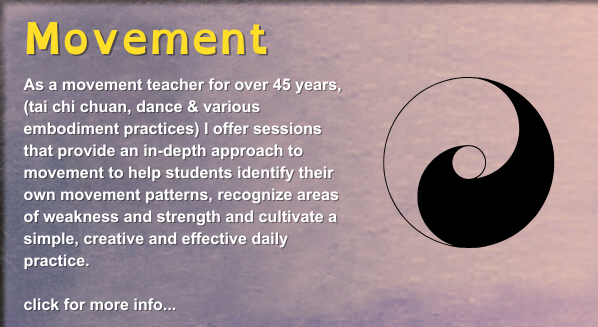
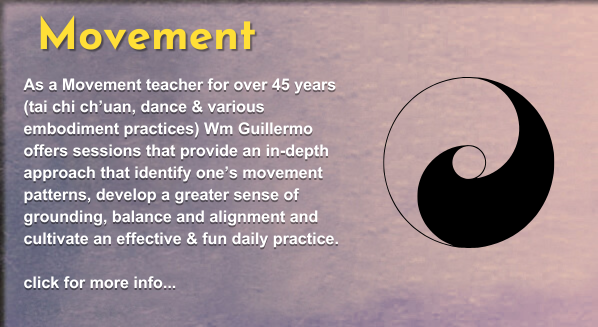
update

diff --git a/about.html b/about.html
@@ -28,19 +28,74 @@
 
     <div class="title-container">
       <div class="title-contents">
-<!--         <span class="signature">Wm Guillermo Ortiz</span>
- -->      </div>
+        <!--         <span class="signature">Wm Guillermo Ortiz</span>
+ -->
+      </div>
       <span class="title">About</span>
       <hr>
     </div>
 
     <div id="content">
       <h1>Who is Wm Guillermo Anyway?</h1>
- <!--      <p><img src="images/about-headshot.png" alt="Wm Guillermo Ortiz" width="233" height="350" class="img-right" />
+      <!--      <p><img src="images/about-headshot.png" alt="Wm Guillermo Ortiz" width="233" height="350" class="img-right" />
       </p> -->
       <p class="para-one"><em>“My strong interest and desire is to share my passion for cultivating and sustaining
           health, joy and well-being in one’s body, home and life.”</em></p>
+
       <h2>L.A. Roots</h2>
+      <p>Wm Guillermo Ortiz was raised in Los Angeles, the second of seven sons, to a Latino working-class family with
+        roots in northern Mexico. Him and his brothers were expected to contribute to their father’s moving business, and
+        in this way, his father became his first movement teacher. <br><br> Growing up in the 50’s and 60’s, his love of rock 'n' roll and
+        fascination with the forms of dance began a deepening interest within himself into the realm of physical expression.<!--—one of these that held
+        his interest at the time was long-distance running.--></p>
+        <p><img src="" alt="image of young guillermo" width="330" height="" class="img-right" /></p>
+
+      <p>From 1968 to 1972, during the time of the Vietnam war, he served in the US Navy as a medical and neuro-psychiatric corpsman
+        which propelled him into the mental health field where he stayed for the next ten years. <br><br>It was during this period that he was introduced to
+        tai chi Ch’uan, the Chinese art of health and self-defense. Under the guidance of his teacher Marshall Ho’o, he
+        began a lifelong practice that continues to this day.<br><br> These experiences formed the basis for his movement,
+        healing, and work with trauma.</p>
+
+
+      <h2>Moving Forward</h2>
+      <p>In 1984, he was invited by the Institute for Educational Therapy to travel to Italy to be a co-teacher in a
+        month-long seminar in bodywork, tai chi Ch’uan, dance, and meditation. From this initial workshop, and
+        through fostering and maintaining connections within the bodywork/movement community, he began
+        developing a consistent corriculum for retreats and workshops he taught around Europe<!--  connections within the bodywork/movement community -->. 
+        <br><br>During this time he had the opportunity to meet and study with Buddhist movement teacher Prapto Suryodharmo, which led to travels to
+        Java studying and refining his movement skills in a spiritual landscape.</p>
+
+      <h2>Xochipilli & Men Work</h2>
+      <p>Moving to the Bay Area, he became involved with the Sons of Orpheus in the mytho-poetic men’s movement. In
+        1992, along with fellow Chicano artists Juan Domingo, poet/activist Rafael J. Gonzalez, and diversity trainer
+        Roberto Almanzan, they founded Xochipilli, a Latino men’s ritual group. Xochipilli continues to use art, ritual,
+        and performance to address socially relevant issues.</p>
+
+        <p><img src="images/ministry-back.webp" alt="Wm Guillermo Ortiz" width="430" height="" class="img-left" /></p>
+
+
+      <h2>Ministry</h2>
+      <p>At the advent of the Iraqi war, feeling compelled to step up his peace efforts, he commenced a Master’s of
+        Divinity program with the Seminary for Spiritual Peacemaking, founded by James Twyman. Ordained in 2006, he
+        began offering public and private ceremonies with an emphasis on embodying peace. In addition, he began
+        officiating weddings, conducting last rites, and offering home blessings.</p>
+
+      <h2>Curanderismo</h2>
+      <p>It was in 2005 that he took on an official apprenticeship with Elena Avila, RN, curandera and author of <a
+        href="https://www.google.com/search?q=woman+who+glows+in+the+dark&oq=woman+who+glows+i&gs_lcrp=EgZjaHJvbWUqCggAEAAY4wIYgAQyCggAEAAY4wIYgAQyBwgBEC4YgAQyBggCEEUYOTIHCAMQABiABDIHCAQQABiABDIHCAUQABiABDIHCAYQABiABDIHCAcQABiABDIICAgQABgWGB4yCAgJEAAYFhge0gEIMjk2MGowajeoAgCwAgA&sourceid=chrome&ie=UTF-8"
+        target="_blank" rel="noopener"><U>"Woman Who Glows in the
+          Dark."</U></a> Elena had been a close friend since 1981 when they met working together at UCLA. It was
+        her committed journey into her Mexican roots that inspired him to go deeper into the practices of curanderismo.
+        He was initiated in November 2010 with a ceremony conducted in Mexico City surrounded by friends and family. He
+        continues to offer his services to his community.</p>
+
+      <h2>Personal Statement</h2>
+      <p>Woven through all his work is a strong desire for excellence, caring for others, and a vision of a peaceful
+        world. His love of physical movement allows him to fully engage in his craft, and his passion for healing
+        informs his peace ministry and work in curanderismo.</p>
+
+
+      <!--       <h2>L.A. Roots</h2>
       <p>Wm Guillermo Ortiz was raised in Los Angeles, the second of seven sons, to a latino working class family with
         roots in northern Mexico. He and his brothers were expected to contribute to their father’s moving business and
         from an early age he was imbued with a respect and appreciation for “work well-done.”</p>
@@ -94,64 +149,64 @@
         physical movement allows him to fully engage in his craft and his passion for healing informs his peace ministry
         and work in curanderismo. </p>
       <p> “My strong interest and desire is to share my passion for cultivating and sustaining health, joy and
-        well-being in one’s body, home and life.”</p>
-    </div>
-    <form action="http://www.wmguillermo.com/cgi-bin/FormMail.pl" method="POST"
-      enctype="application/x-www-form-urlencoded">
+        well-being in one’s body, home and life.”</p>-->
+    </div> 
+      <form action="http://www.wmguillermo.com/cgi-bin/FormMail.pl" method="POST"
+        enctype="application/x-www-form-urlencoded">
 
-      <input type="hidden" name="recipient" value="info">
-      <input type="hidden" name="subject" value="wmguillermo.com contact/about">
-      <input type="hidden" name="redirect" value="http://www.wmguillermo.com/contact-response.html">
+        <input type="hidden" name="recipient" value="info">
+        <input type="hidden" name="subject" value="wmguillermo.com contact/about">
+        <input type="hidden" name="redirect" value="http://www.wmguillermo.com/contact-response.html">
 
-      <div class="box">
-        <h1>Let's Connect. Call me at 510-685-8270, or, use this form: </h1>
-        <label>
-          <span>Name</span> <input type="text" class="input_text" name="realname" id="realname" />
-        </label>
-        <label>
-          <span>Email </span>
-          <input type="text" class="input_text" name="email" id="email" />
-          &nbsp;&nbsp;I hate spam too. Your address is safe. </label>
-        <label>
-          <span>Enter Code </span>
-          <input type="text" class="input_text" name="secretfield" id="secretfield" />
-          &nbsp;&nbsp;<strong>← CODE: nospam </strong> </label>
-        <label>
-          <span>Telephone #</span>
-          <input type="text" class="input_text" name="phone" id="phone" />
-          &nbsp;&nbsp;If you'd like me to call you</label>
-        <label>
-          <span>Concerning </span>
-          <input type="text" class="input_text" name="concerning" id="concerning" />
-          &nbsp;&nbsp;Which services are you interested in?</label>
-        <label>
-          <span>Message</span>
-          <textarea class="message" name="message" id="message"></textarea>
-          <input type="submit" class="button" value="Send Now" />
-        </label>
-      </div>
-    </form>
+        <div class="box">
+          <h1>Let's Connect. Call me at 510-685-8270, or, use this form: </h1>
+          <label>
+            <span>Name</span> <input type="text" class="input_text" name="realname" id="realname" />
+          </label>
+          <label>
+            <span>Email </span>
+            <input type="text" class="input_text" name="email" id="email" />
+            &nbsp;&nbsp;I hate spam too. Your address is safe. </label>
+          <label>
+            <span>Enter Code </span>
+            <input type="text" class="input_text" name="secretfield" id="secretfield" />
+            &nbsp;&nbsp;<strong>← CODE: nospam </strong> </label>
+          <label>
+            <span>Telephone #</span>
+            <input type="text" class="input_text" name="phone" id="phone" />
+            &nbsp;&nbsp;If you'd like me to call you</label>
+          <label>
+            <span>Concerning </span>
+            <input type="text" class="input_text" name="concerning" id="concerning" />
+            &nbsp;&nbsp;Which services are you interested in?</label>
+          <label>
+            <span>Message</span>
+            <textarea class="message" name="message" id="message"></textarea>
+            <input type="submit" class="button" value="Send Now" />
+          </label>
+        </div>
+      </form>
 
 
-    <div id="footer">
-      <div class="spacer-32"></div>
-      <ul>
-        <li><a href="index.html">home</a></li>
-        <li><a href="about.html">about</a></li>
-        <li><a href="curanderismo.html">curanderismo</a></li>
-        <li><a href="movement.html">movement</a></li>
-        <li><a href="ministry.html">ministry</a></li>
-        <li><a href="contact.html">contact</a></li>
-      </ul>
-      <p class="mar-top">Please share my site with your friends and help me spread the word!</p>
-      <!-- <div class="addthis_toolbox addthis_default_style addthis_32x32_style" style="width:300px; margin:0 auto; text-align:center;  padding-left:30px; padding-top: 12px;"> <a class="addthis_button_twitter" style="padding-right: 12px;"></a> <a class="addthis_button_myspace" style="padding-right: 12px;"></a> <a class="addthis_button_facebook" style="padding-right: 12px;"></a> <a class="addthis_button_stumbleupon" style="padding-right: 12px;"></a> <a class="addthis_button_email" style="padding-right: 12px;"></a> <a class="addthis_button_compact"></a> </div>
+      <div id="footer">
+        <div class="spacer-32"></div>
+        <ul>
+          <li><a href="index.html">home</a></li>
+          <li><a href="about.html">about</a></li>
+          <li><a href="curanderismo.html">curanderismo</a></li>
+          <li><a href="movement.html">movement</a></li>
+          <li><a href="ministry.html">ministry</a></li>
+          <li><a href="contact.html">contact</a></li>
+        </ul>
+        <p class="mar-top">Please share my site with your friends and help me spread the word!</p>
+        <!-- <div class="addthis_toolbox addthis_default_style addthis_32x32_style" style="width:300px; margin:0 auto; text-align:center;  padding-left:30px; padding-top: 12px;"> <a class="addthis_button_twitter" style="padding-right: 12px;"></a> <a class="addthis_button_myspace" style="padding-right: 12px;"></a> <a class="addthis_button_facebook" style="padding-right: 12px;"></a> <a class="addthis_button_stumbleupon" style="padding-right: 12px;"></a> <a class="addthis_button_email" style="padding-right: 12px;"></a> <a class="addthis_button_compact"></a> </div>
       <script type="text/javascript" src="http://s7.addthis.com/js/250/addthis_widget.js#username=xa-4d3b138d6358c7a4">
 	var addthis_exclude = 'print';
     </script> -->
-      <!-- AddThis Button END (Discontinued, needs a replacement) -->
-      <p class="tone-down-padtop">Copyright &copy; 2011 Wm. Guillermo Ortiz All rights reserved</p>
+        <!-- AddThis Button END (Discontinued, needs a replacement) -->
+        <p class="tone-down-padtop">Copyright &copy; 2011 Wm. Guillermo Ortiz All rights reserved</p>
+      </div>
     </div>
-  </div>
 
 
 </body>

diff --git a/movement.html b/movement.html
@@ -42,9 +42,9 @@
       <hr>
     </div>
 
-    <div id="content">
+    <div id="content"><img src="images/tai-chi.jpeg" alt="w" width="356" height="" class="img-right" />
       <h1>Life is a Moving Experience</h1>
-      <p><img src="images/movement-2.jpg" alt="w" width="126" height="455" class="img-left" />From an early age, Wm
+      <p>From an early age, Wm
         Guillermo learned the importance of movement from his father, a household mover and his mother, a lover of dance
         .<br />
       </p>
@@ -65,8 +65,8 @@
         &quot;<em>medication</em> in motion.&quot; There is growing evidence that this mind-body practice, which
         originated in China as a martial art, has value in treating or preventing many health problems. And you can get
         started even if you aren't in top shape or the best of health.</p>
-      <p><img src="images/tai-chi-1.jpg" alt="tai chi" width="410" height="304" class="img-left" />In this low-impact,
-        slow-motion exercise, you go without pausing through a series of motions named for animal actions — for example,
+      <p>In this low-impact,
+        slow-motion exercise, you go without <img src="images/tai-chi-1.jpg" alt="tai chi" width="" height="280" class="img-left" />pausing through a series of motions named for animal actions — for example,
         &quot;white crane spreads its wings&quot; — or martial arts moves, such as &quot;box both ears.&quot; As you
         move, you breathe deeply and naturally, focusing your attention — as in some kinds of meditation — on your
         bodily sensations. Tai chi differs from other types of exercise in several respects. The movements are usually

diff --git a/index.html b/index.html
@@ -43,13 +43,13 @@
           <div class="carousel-images">
               <span class="arrow" id="prev" onclick="changeSlide(-1)">&#10094;</span>
               <a id="main-image-link" href="/curanderismo.html">
-                  <img src="/images/slide-curanderismo.jpg" id="main-image" alt="Main Image">
+                  <img src="/images/slide-cu.png" id="main-image" alt="Main Image">
               </a>
               <span class="arrow" id="next" onclick="changeSlide(1)">&#10095;</span>
           </div>
 
           <div class="thumbnail-container">
-              <img src="/images/slide-curanderismo.jpg" class="thumbnail active" data-href="/curanderismo.html" alt="Thumbnail 1" onclick="changeImage(this)">
+              <img src="/images/slide-cu.png" class="thumbnail active" data-href="/curanderismo.html" alt="Thumbnail 1" onclick="changeImage(this)">
               <img src="/images/slide-mo.png" class="thumbnail" data-href="/movement.html" alt="Thumbnail 2" onclick="changeImage(this)">
               <img src="/images/slide-ministry.jpg" class="thumbnail" data-href="/ministry.html" alt="Thumbnail 3" onclick="changeImage(this)">
 <!--               <img src="/images/slide-ortiz-tile.jpg" class="thumbnail" data-href="/images/slide-ortiz-tile.jpg" alt="Thumbnail 4" onclick="changeImage(this)">

diff --git a/curanderismo.html b/curanderismo.html
@@ -81,7 +81,7 @@
         many illnesses are caused by lost malevolent spirits, a lesson from God, or curse.</p>
       <p>There are different types of curanderos. “Yerberos” are primarily herbalists. “Hueseros and Sobaderos” are
         bone/muscle therapists who emphasize physical ailments. &quot;Parteras&quot; are midwives.&quot;</p>
-      <h3><img src="images/curand-6.jpg" alt="Wm Guillermo Ortiz" width="214" height="300" class="img-right" />What is
+      <h3><img src="images/curand-7.jpg" alt="Wm Guillermo Ortiz" width="240" height="" class="img-right" />What is
         involved?</h3>
       <p>Among the curandero's tools, the most important is the heart. The tangible implements are symbols of the
         healer's spiritual faith and relationship to Mother Earth. There is a great awareness of ceremony, honoring

diff --git a/ministry.html b/ministry.html
@@ -43,7 +43,7 @@
     </div>
 
     <div id="content">
-      <h1><span class="para-one"><img src="images/wedding1.jpg" alt="wedding ceremony" width="300" height="214"
+      <h1><span class="para-one"><img src="images/ministry-1.webp" alt="wedding ceremony" width="" height="230"
             class="img-right" /></span>Ordained Minister</h1>
       <p class="para-one">Wm Guillermo Ortiz is an ordained minister who received his Master of Divinity in 2006 from
         the Seminary of Spiritual Peacemaking in Ashland, Oregon. He conducts weddings, coming-of-age initiations, last

diff --git a/css/styles.css b/css/styles.css
@@ -498,7 +498,7 @@ hr {
   top: 0px;
   left: 10px;
   margin-bottom: 0;
-  background-image: url(../images/masthead-pic.png);
+  background-image: url(../images/masthead-pic3.png);
   background-repeat: no-repeat;
   /*background-attachment:fixed;*/
   background-position: right;
